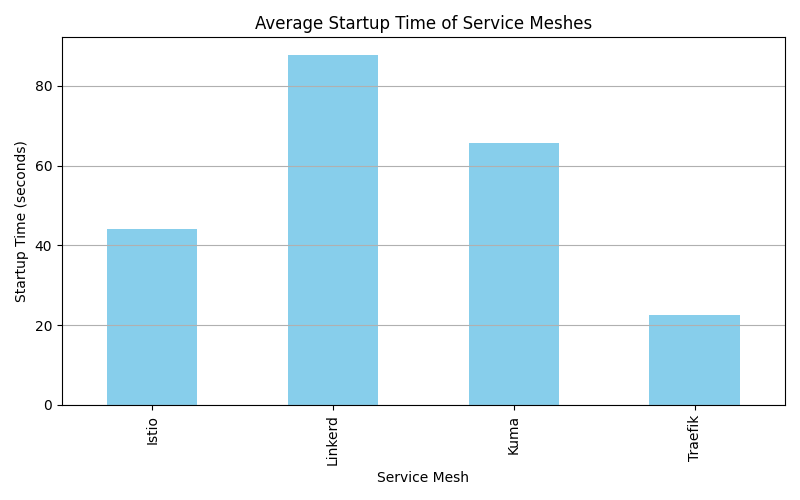
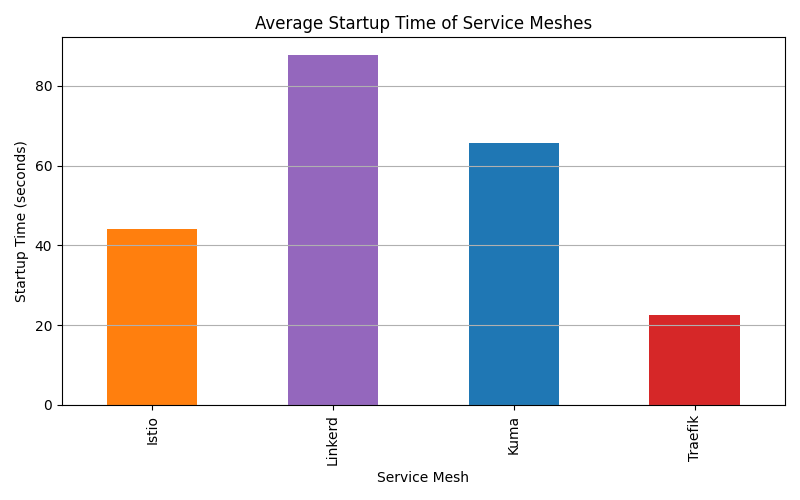
Re plot the startup time chart

diff --git a/benchmark/scripts/plot_startup_time.py b/benchmark/scripts/plot_startup_time.py
@@ -7,6 +7,14 @@ ROOT_DIR = os.path.abspath(os.path.dirname(__file__))
 DATA_PATH = os.path.join(ROOT_DIR, "data", "startup_time.csv")
 OUTPUT_PATH = os.path.join(ROOT_DIR, "data", "startup_time_chart.png")
 
+# === COLOR MAP ===
+COLOR_MAP = {
+    "istio": "#ff7f0e",
+    "linkerd": "#9467bd",
+    "kuma": "#1f77b4",
+    "traefik": "#d62728"
+}
+
 # === LOAD DATA ===
 df = pd.read_csv(DATA_PATH)
 
@@ -15,7 +23,8 @@ averages = df.drop(columns=["Time"]).mean()
 
 # === PLOT ===
 plt.figure(figsize=(8, 5))
-averages.plot(kind="bar", color="skyblue")
+colors = [COLOR_MAP.get(mesh.lower(), "#7f7f7f") for mesh in averages.index]
+averages.plot(kind="bar", color=colors)
 plt.title("Average Startup Time of Service Meshes")
 plt.xlabel("Service Mesh")
 plt.ylabel("Startup Time (seconds)")
